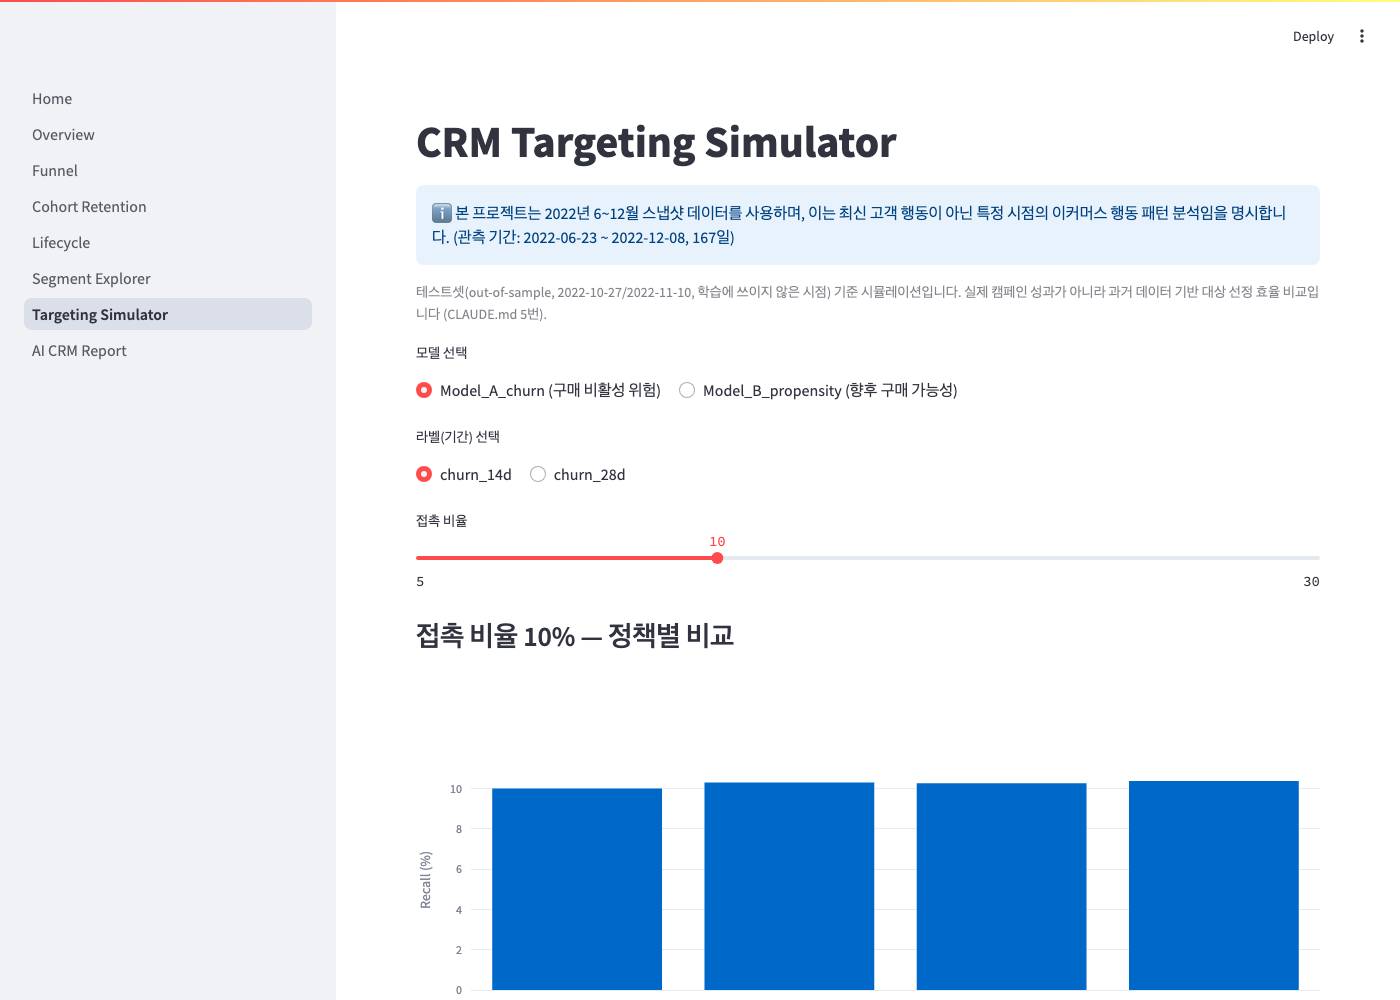
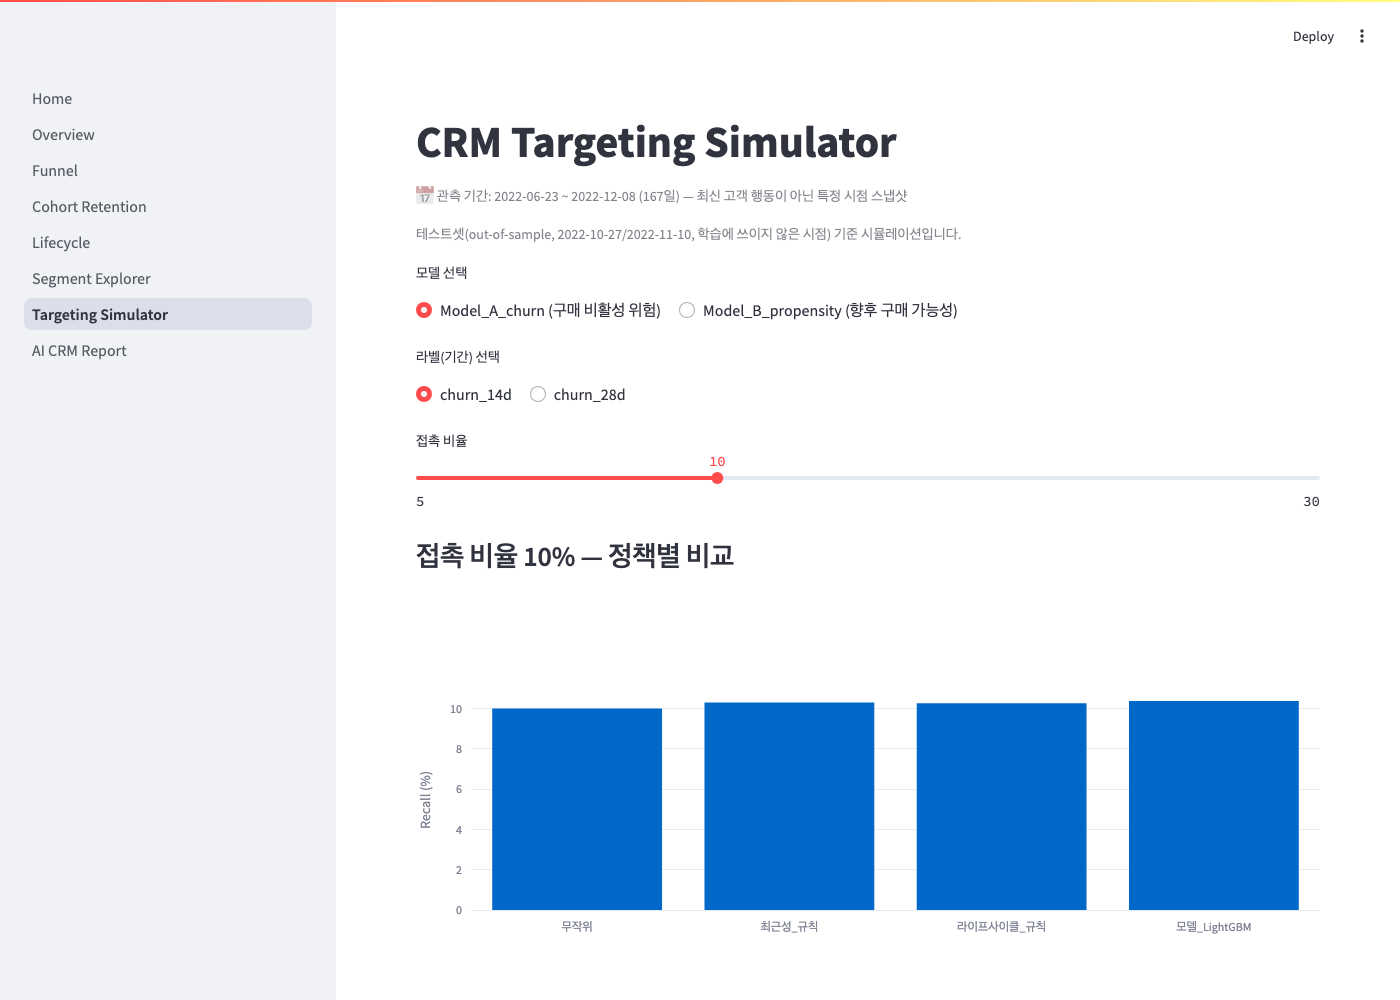
fix: prevent st.metric truncation and shrink repeated data-period notice
Large KPI counts (e.g. 22,298,361) were rendering as "..." in st.metric
across Overview/Funnel/Segment Explorer/Targeting Simulator/AI CRM Report.
Added format_count() (Korean 만/억 abbreviation) with exact value shown via
help tooltip. Funnel's two conversion-rate metrics also truncated due to
long labels in a 4-column layout; switched to 2x2 columns.

Replaced the large repeated st.info() data-period box on every page with
a compact one-line st.caption().

diff --git a/app/pages/1_Overview.py b/app/pages/1_Overview.py
@@ -5,7 +5,13 @@ import plotly.graph_objects as go
 import streamlit as st
 
 sys.path.insert(0, str(Path(__file__).resolve().parents[2]))
-from src.dashboard.data import load_funnel_summary, load_overview_kpis, show_data_period_notice
+from src.dashboard.data import (
+    format_count,
+    load_funnel_summary,
+    load_overview_kpis,
+    show_data_period_notice,
+    with_exact_help,
+)
 
 st.set_page_config(page_title="Overview", page_icon="📊", layout="wide")
 st.title("CRM Overview")
@@ -16,17 +22,22 @@ funnel = load_funnel_summary()
 
 st.subheader("핵심 KPI")
 c1, c2, c3, c4 = st.columns(4)
-c1.metric("전체 관측 고객", f"{kpis['total_customers']:,.0f}")
-c2.metric("구매 고객", f"{kpis['buyers']:,.0f}", help="관측 기간 내 1회 이상 구매")
-c3.metric("반복구매 가능 고객", f"{kpis['repeat_buyers']:,.0f}", help="서로 다른 날짜에 2회 이상 구매")
-c4.metric("장바구니 고객", f"{kpis['cart_customers']:,.0f}")
+c1.metric("전체 관측 고객", format_count(kpis['total_customers']),
+          help=with_exact_help(kpis['total_customers']))
+c2.metric("구매 고객", format_count(kpis['buyers']),
+          help=with_exact_help(kpis['buyers'], "관측 기간 내 1회 이상 구매"))
+c3.metric("반복구매 가능 고객", format_count(kpis['repeat_buyers']),
+          help=with_exact_help(kpis['repeat_buyers'], "서로 다른 날짜에 2회 이상 구매"))
+c4.metric("장바구니 고객", format_count(kpis['cart_customers']),
+          help=with_exact_help(kpis['cart_customers']))
 
 c5, c6, c7 = st.columns(3)
-c5.metric("구매 비활성 위험 고객", f"{kpis['at_risk_customers']:,.0f}",
-          help="마지막 구매 후 29~60일 경과 (docs/methodology.md 데이터 기반 임계값)")
-c6.metric("비활성 고객", f"{kpis['inactive_customers']:,.0f}", help="마지막 구매 후 60일 초과 경과")
-c7.metric("최근 14일 구매 전환(최신 스냅샷)", f"{kpis['recent_converters']:,.0f}",
-          help="mart_purchase_propensity 최신 snapshot_date 기준 will_purchase_14d=1")
+c5.metric("구매 비활성 위험 고객", format_count(kpis['at_risk_customers']),
+          help=with_exact_help(kpis['at_risk_customers'], "마지막 구매 후 29~60일 경과 (docs/methodology.md 데이터 기반 임계값)"))
+c6.metric("비활성 고객", format_count(kpis['inactive_customers']),
+          help=with_exact_help(kpis['inactive_customers'], "마지막 구매 후 60일 초과 경과"))
+c7.metric("최근 14일 구매 전환(최신 스냅샷)", format_count(kpis['recent_converters']),
+          help=with_exact_help(kpis['recent_converters'], "mart_purchase_propensity 최신 snapshot_date 기준 will_purchase_14d=1"))
 
 st.caption(
     "⚠ '구매 비활성 위험/비활성' 고객 수는 관측 종료 시점 기준 단면입니다. "

diff --git a/src/dashboard/data.py b/src/dashboard/data.py
@@ -7,11 +7,33 @@ import streamlit as st
 
 DASHBOARD_DIR = Path("data/dashboard")
 
-DATA_PERIOD_NOTICE = (
-    "본 프로젝트는 2022년 6~12월 스냅샷 데이터를 사용하며, "
-    "이는 최신 고객 행동이 아닌 특정 시점의 이커머스 행동 패턴 분석임을 명시합니다. "
-    "(관측 기간: 2022-06-23 ~ 2022-12-08, 167일)"
+DATA_PERIOD_CAPTION = (
+    "📅 관측 기간: 2022-06-23 ~ 2022-12-08 (167일) — 최신 고객 행동이 아닌 "
+    "특정 시점 스냅샷"
 )
+
+
+def format_count(n) -> str:
+    """큰 숫자를 한국어 단위(만/억)로 축약 표시.
+
+    st.metric은 좁은 컬럼에서 8자리 이상 숫자를 자동 줄바꿈하지 않고 "..."로
+    잘라버린다 — 이 축약은 그 문제를 막기 위함이다. 정확한 값은 잘려서는
+    안 되므로 항상 help 파라미터 등으로 별도 표기한다(with_exact_help 참고).
+    """
+    n = float(n)
+    sign = "-" if n < 0 else ""
+    n = abs(n)
+    if n >= 100_000_000:
+        return f"{sign}{n / 100_000_000:,.1f}억"
+    if n >= 10_000:
+        return f"{sign}{n / 10_000:,.1f}만"
+    return f"{sign}{n:,.0f}"
+
+
+def with_exact_help(value, existing_help: str = "") -> str:
+    """format_count로 축약 표시할 때 st.metric의 help 툴팁에 정확한 값을 남긴다."""
+    exact = f"정확한 값: {value:,.0f}"
+    return f"{exact} — {existing_help}" if existing_help else exact
 
 
 @st.cache_data
@@ -48,4 +70,4 @@ def load_targeting_simulation() -> pd.DataFrame:
 
 
 def show_data_period_notice() -> None:
-    st.info(f"ℹ {DATA_PERIOD_NOTICE}")
+    st.caption(DATA_PERIOD_CAPTION)

diff --git a/app/pages/2_Funnel.py b/app/pages/2_Funnel.py
@@ -5,7 +5,7 @@ import plotly.graph_objects as go
 import streamlit as st
 
 sys.path.insert(0, str(Path(__file__).resolve().parents[2]))
-from src.dashboard.data import load_funnel_summary, show_data_period_notice
+from src.dashboard.data import format_count, load_funnel_summary, show_data_period_notice
 
 st.set_page_config(page_title="Funnel", page_icon="🔻", layout="wide")
 st.title("고객 단위 퍼널")
@@ -39,14 +39,19 @@ st.markdown(
 """
 )
 
-col1, col2, col3, col4 = st.columns(4)
 total_buy = funnel["buy"]
 explore_cart_buy = funnel["cart_to_buy"]
 no_footprint = funnel["buy_with_no_footprint"]
-col1.metric("탐색→장바구니→구매", f"{explore_cart_buy:,.0f}",
-            f"{explore_cart_buy/total_buy*100:.1f}%")
-col2.metric("기록 없이 구매", f"{no_footprint:,.0f}",
-            f"{no_footprint/total_buy*100:.1f}%", delta_color="off")
+
+col1, col2 = st.columns(2)
+col1.metric("탐색→장바구니→구매", format_count(explore_cart_buy),
+            f"{explore_cart_buy/total_buy*100:.1f}%",
+            help=f"정확한 값: {explore_cart_buy:,.0f}")
+col2.metric("기록 없이 구매", format_count(no_footprint),
+            f"{no_footprint/total_buy*100:.1f}%", delta_color="off",
+            help=f"정확한 값: {no_footprint:,.0f}")
+
+col3, col4 = st.columns(2)
 col3.metric("탐색→장바구니 전환율", f"{funnel['explore_to_cart']/funnel['explore']*100:.2f}%")
 col4.metric("장바구니→구매 전환율", f"{funnel['cart_to_buy']/funnel['cart']*100:.2f}%")
 

diff --git a/app/pages/6_Targeting_Simulator.py b/app/pages/6_Targeting_Simulator.py
@@ -5,7 +5,7 @@ import plotly.graph_objects as go
 import streamlit as st
 
 sys.path.insert(0, str(Path(__file__).resolve().parents[2]))
-from src.dashboard.data import load_targeting_simulation, show_data_period_notice
+from src.dashboard.data import format_count, load_targeting_simulation, show_data_period_notice, with_exact_help
 
 st.set_page_config(page_title="Targeting Simulator", page_icon="🎯", layout="wide")
 st.title("CRM Targeting Simulator")
@@ -50,8 +50,9 @@ if not compare_row.empty:
     st.markdown("---")
     st.subheader("모델 vs 최근성 규칙 — 동일 Recall 달성 시 접촉 인원 비교")
     c1, c2, c3 = st.columns(3)
-    c1.metric("모델 접촉 인원", f"{r['n_selected']:,.0f}")
-    c2.metric("규칙이 동일 Recall에 필요한 인원", f"{r['customers_needed_by_rule_for_same_recall']:,.0f}")
+    c1.metric("모델 접촉 인원", format_count(r['n_selected']), help=with_exact_help(r['n_selected']))
+    c2.metric("규칙이 동일 Recall에 필요한 인원", format_count(r['customers_needed_by_rule_for_same_recall']),
+              help=with_exact_help(r['customers_needed_by_rule_for_same_recall']))
     c3.metric("접촉 인원 절감률", f"{r['contact_reduction_pct']:.2f}%")
     st.caption(
         f"→ 상위 {contact_rate}% 고객을 모델로 선정했을 때, 단순 최근성 기준보다 "

diff --git a/app/pages/7_AI_CRM_Report.py b/app/pages/7_AI_CRM_Report.py
@@ -4,7 +4,7 @@ from pathlib import Path
 import streamlit as st
 
 sys.path.insert(0, str(Path(__file__).resolve().parents[2]))
-from src.dashboard.data import show_data_period_notice
+from src.dashboard.data import format_count, show_data_period_notice, with_exact_help
 from src.llm.client import get_available_backend
 from src.llm.data_loader import build_report_input
 from src.llm.report_generator import generate_crm_report
@@ -34,7 +34,8 @@ st.caption(f"생성 방식: {output.generated_by} | 기간: {output.period_start
 st.subheader("1. Data Facts (SQL에서 확인된 사실)")
 cols = st.columns(len(output.data_facts))
 for col, fact in zip(cols, output.data_facts):
-    col.metric(fact.label, f"{fact.value:,.0f}{fact.unit}")
+    col.metric(fact.label, f"{format_count(fact.value)}{fact.unit}",
+               help=with_exact_help(fact.value))
 
 st.subheader("2. Model Predictions (모델 예측 결과)")
 for m in output.model_predictions:

diff --git a/app/pages/5_Segment_Explorer.py b/app/pages/5_Segment_Explorer.py
@@ -5,7 +5,7 @@ import plotly.express as px
 import streamlit as st
 
 sys.path.insert(0, str(Path(__file__).resolve().parents[2]))
-from src.dashboard.data import load_segment_profile, show_data_period_notice
+from src.dashboard.data import format_count, load_segment_profile, show_data_period_notice, with_exact_help
 
 st.set_page_config(page_title="Segment Explorer", page_icon="🧩", layout="wide")
 st.title("Segment Explorer")
@@ -22,7 +22,7 @@ selected = st.selectbox("세그먼트 선택", df["segment"].tolist())
 row = df[df["segment"] == selected].iloc[0]
 
 c1, c2, c3, c4 = st.columns(4)
-c1.metric("고객 수", f"{row['n']:,.0f}")
+c1.metric("고객 수", format_count(row['n']), help=with_exact_help(row['n']))
 c2.metric("구매율", f"{row['buy_rate']*100:.1f}%")
 c3.metric("평균 방문 횟수", f"{row['avg_visit']:.1f}")
 c4.metric("평균 구매 횟수", f"{row['avg_purchases']:.2f}")

diff --git a/scripts/capture_dashboard_screenshots.py b/scripts/capture_dashboard_screenshots.py
@@ -15,9 +15,11 @@ OUT_DIR.mkdir(parents=True, exist_ok=True)
 PAGES = [
     ("", "dashboard_home.png"),
     ("/Overview", "dashboard_overview.png"),
+    ("/Funnel", "dashboard_funnel.png"),
     ("/Lifecycle", "dashboard_lifecycle.png"),
     ("/Segment_Explorer", "dashboard_segment_explorer.png"),
     ("/Targeting_Simulator", "dashboard_targeting_simulator.png"),
+    ("/AI_CRM_Report", "dashboard_ai_crm_report.png"),
 ]
 
 
